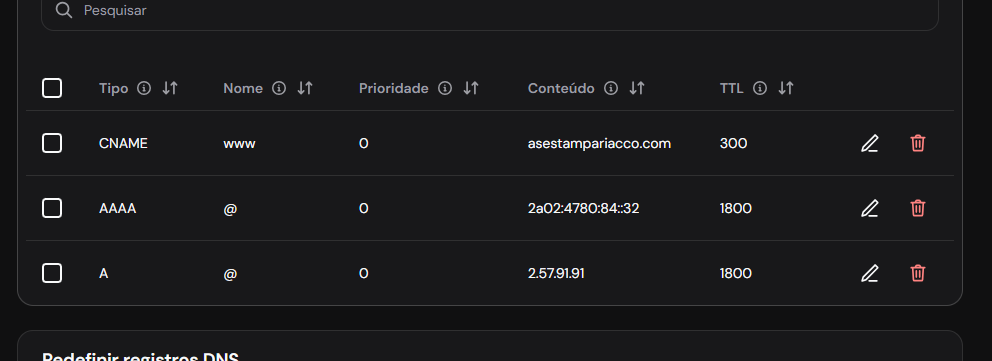
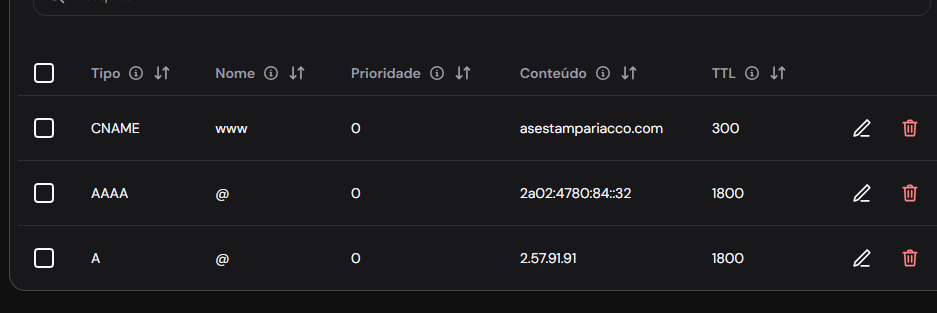
AI: alteracao automatica

diff --git a/index.html b/index.html
@@ -6,7 +6,7 @@
 <title>AS Estamparia — Personalizamos suas ideias. Criamos algo só seu.</title>
 <meta name="description" content="A AS Estamparia transforma fotos, frases e ideias em camisetas, canecas, quadros, ecobags e presentes personalizados. Peça seu orçamento pelo WhatsApp.">
 <link rel="icon" href="assets/logo-as-estamparia.png">
-<link rel="canonical" href="index.html">
+<link rel="canonical" href="https://asestampariacco.com/">
 <meta property="og:title" content="AS Estamparia — Personalizamos suas ideias">
 <meta property="og:description" content="Camisetas, canecas, quadros, ecobags e presentes personalizados. Você imagina, a gente personaliza.">
 <meta property="og:image" content="assets/logo-as-estamparia.png">

diff --git a/AGENTS.md b/AGENTS.md
@@ -5,6 +5,10 @@ Este arquivo é escrito automaticamente pelo Project Brain do Gravity.
 Ele preserva decisões e estado do projeto sem reenviar conversas inteiras.
 **Leia antes de agir e não recomece o que já está feito.**
 
+## Última validação automática
+
+- Status: passed · score 100/100
+
 ## O que já foi feito
 
 - Motor trocado de claude para codex. O trabalho anterior continua valendo — continue de onde parou. _(zheus)_ — 2026-09-23

diff --git a/CLAUDE.md b/CLAUDE.md
@@ -5,6 +5,10 @@ Este arquivo é escrito automaticamente pelo Project Brain do Gravity.
 Ele preserva decisões e estado do projeto sem reenviar conversas inteiras.
 **Leia antes de agir e não recomece o que já está feito.**
 
+## Última validação automática
+
+- Status: passed · score 100/100
+
 ## O que já foi feito
 
 - Motor trocado de claude para codex. O trabalho anterior continua valendo — continue de onde parou. _(zheus)_ — 2026-09-23
